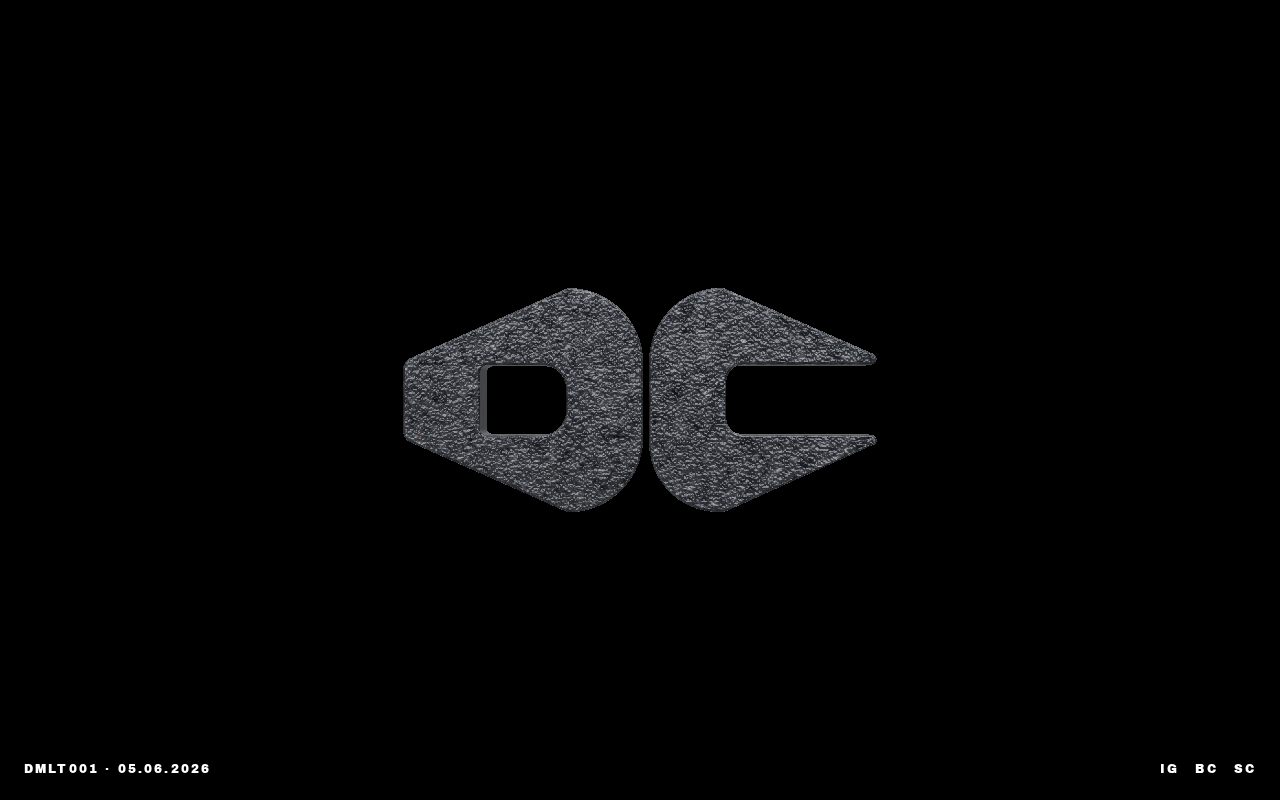
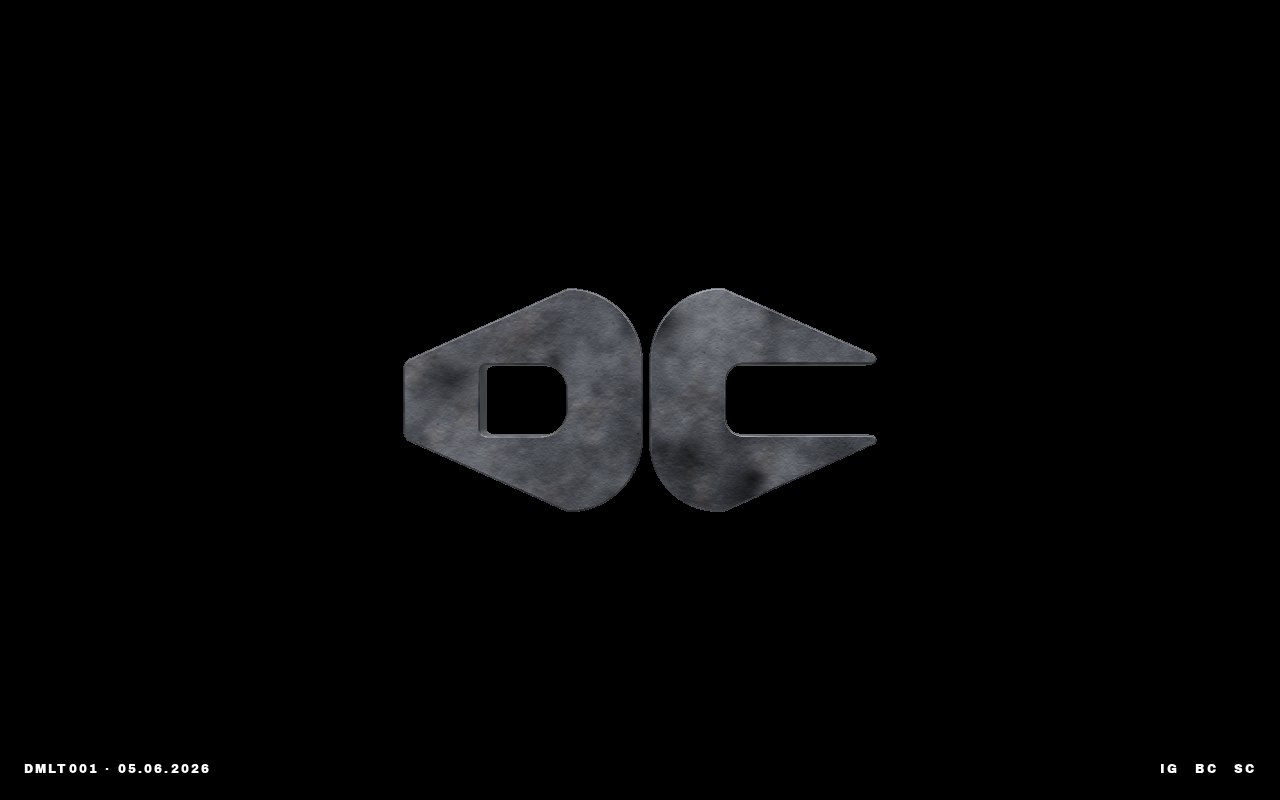
dag: coder completed

Changed region(s): [[0.3125, 0.3438, 0.6875, 0.6562]]

diff --git a/index.html b/index.html
@@ -225,7 +225,7 @@
       // Asymmetric S-curve: stretches midtones, keeps deep darks/bright peaks.
       let mottle = c * 0.7 + bl * 0.4;
       mottle = Math.tanh(mottle * 1.4);      // -1..1 with softer ends
-      const shift = mottle * 55;             // dark valleys -55, peaks +55
+      const shift = mottle * 26;             // narrower tonal band — ref2 is uniformly mid-dark
       let r = 70 + shift;
       let g = 72 + shift;
       let b = 76 + shift;
@@ -247,21 +247,21 @@
           rG = 88 - t * 22;   // 88 → 66
           rB = 66 - t * 18;   // 66 → 48
         }
-        // SOFT alpha blend — tint, not replace.
-        const alpha = m * 0.22;
+        // SOFT alpha blend — tint, not replace (brief: max 10%).
+        const alpha = m * 0.10;
         r = r * (1 - alpha) + rR * alpha;
         g = g * (1 - alpha) + rG * alpha;
         b = b * (1 - alpha) + rB * alpha;
       }
 
       // Fine micro-grain modulation (helps with the photographic feel)
-      const fineShift = (fine - 0.5) * 5;
+      const fineShift = (fine - 0.5) * 4;
       r += fineShift;
       g += fineShift;
       b += fineShift;
 
       // Per-pixel pepper grain (kept low so it doesn't look like sandpaper)
-      const grain = (Math.random() - 0.5) * 4;
+      const grain = (Math.random() - 0.5) * 3;
       const px = i * 4;
       aimg.data[px]     = Math.max(0, Math.min(255, r + grain));
       aimg.data[px + 1] = Math.max(0, Math.min(255, g + grain));
